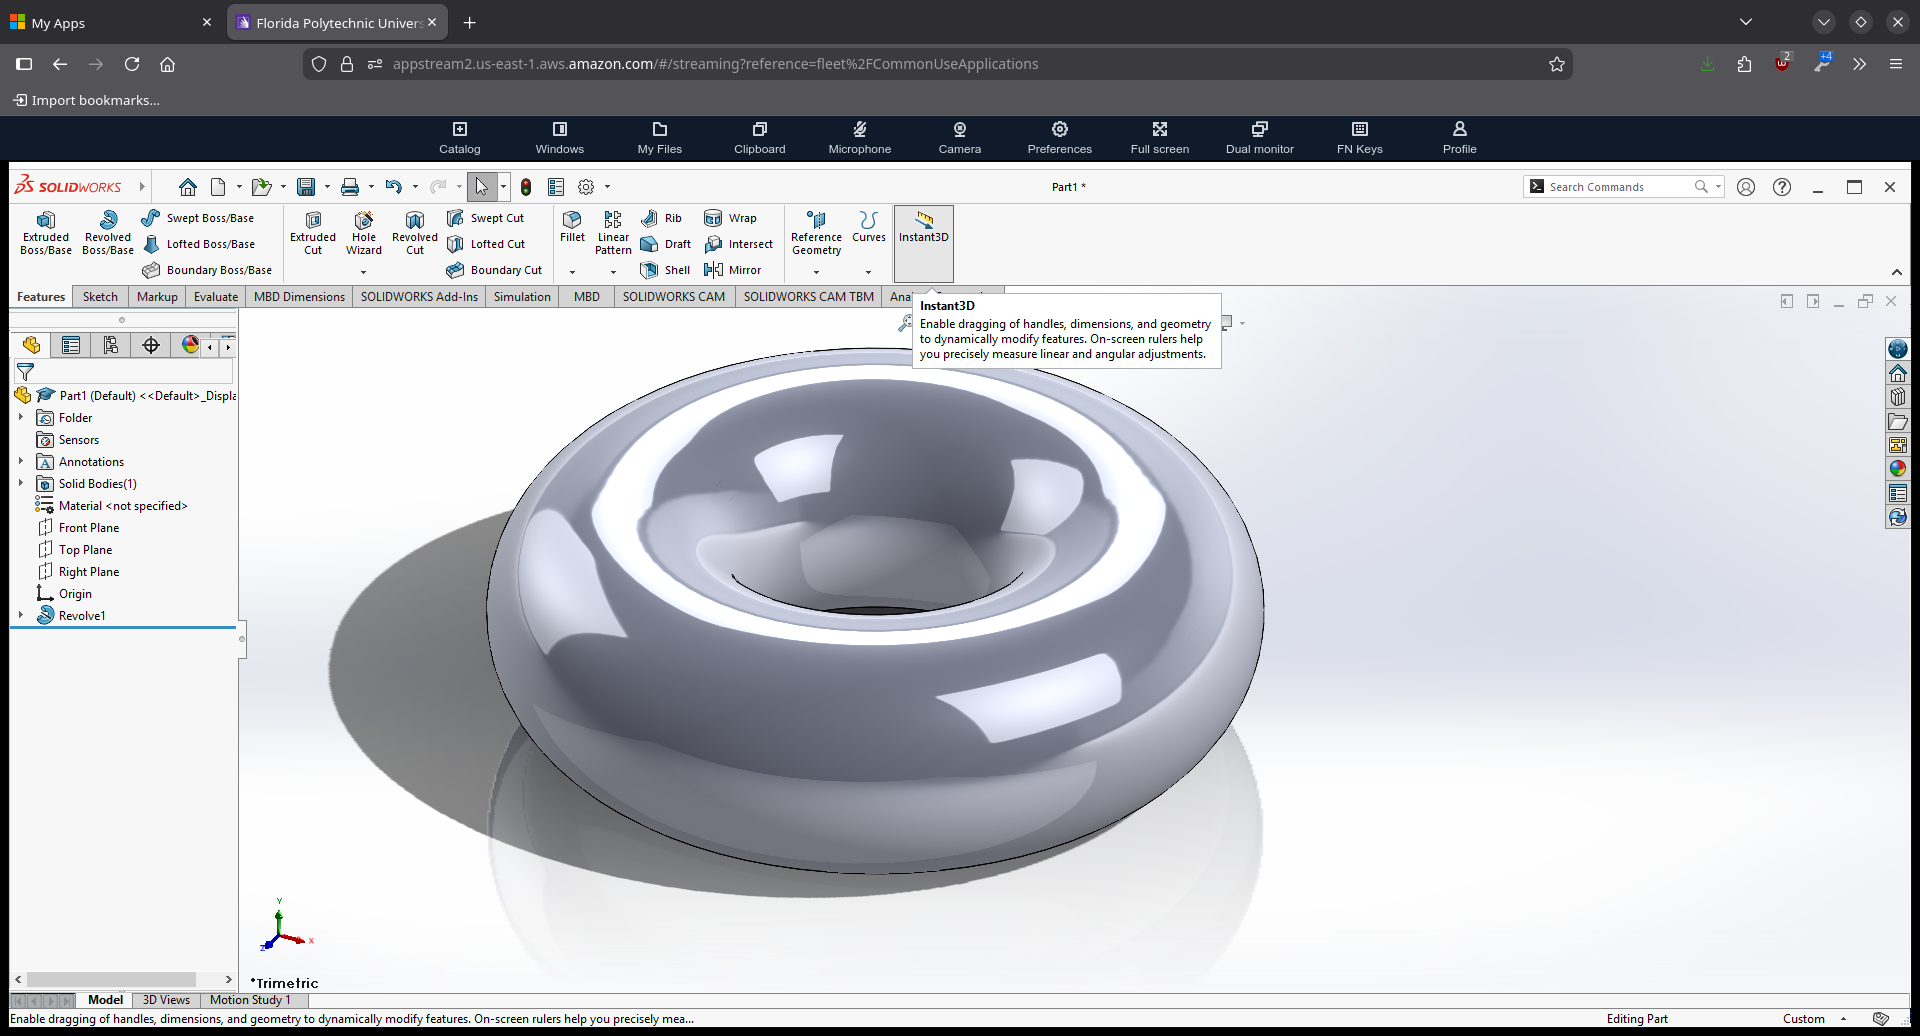
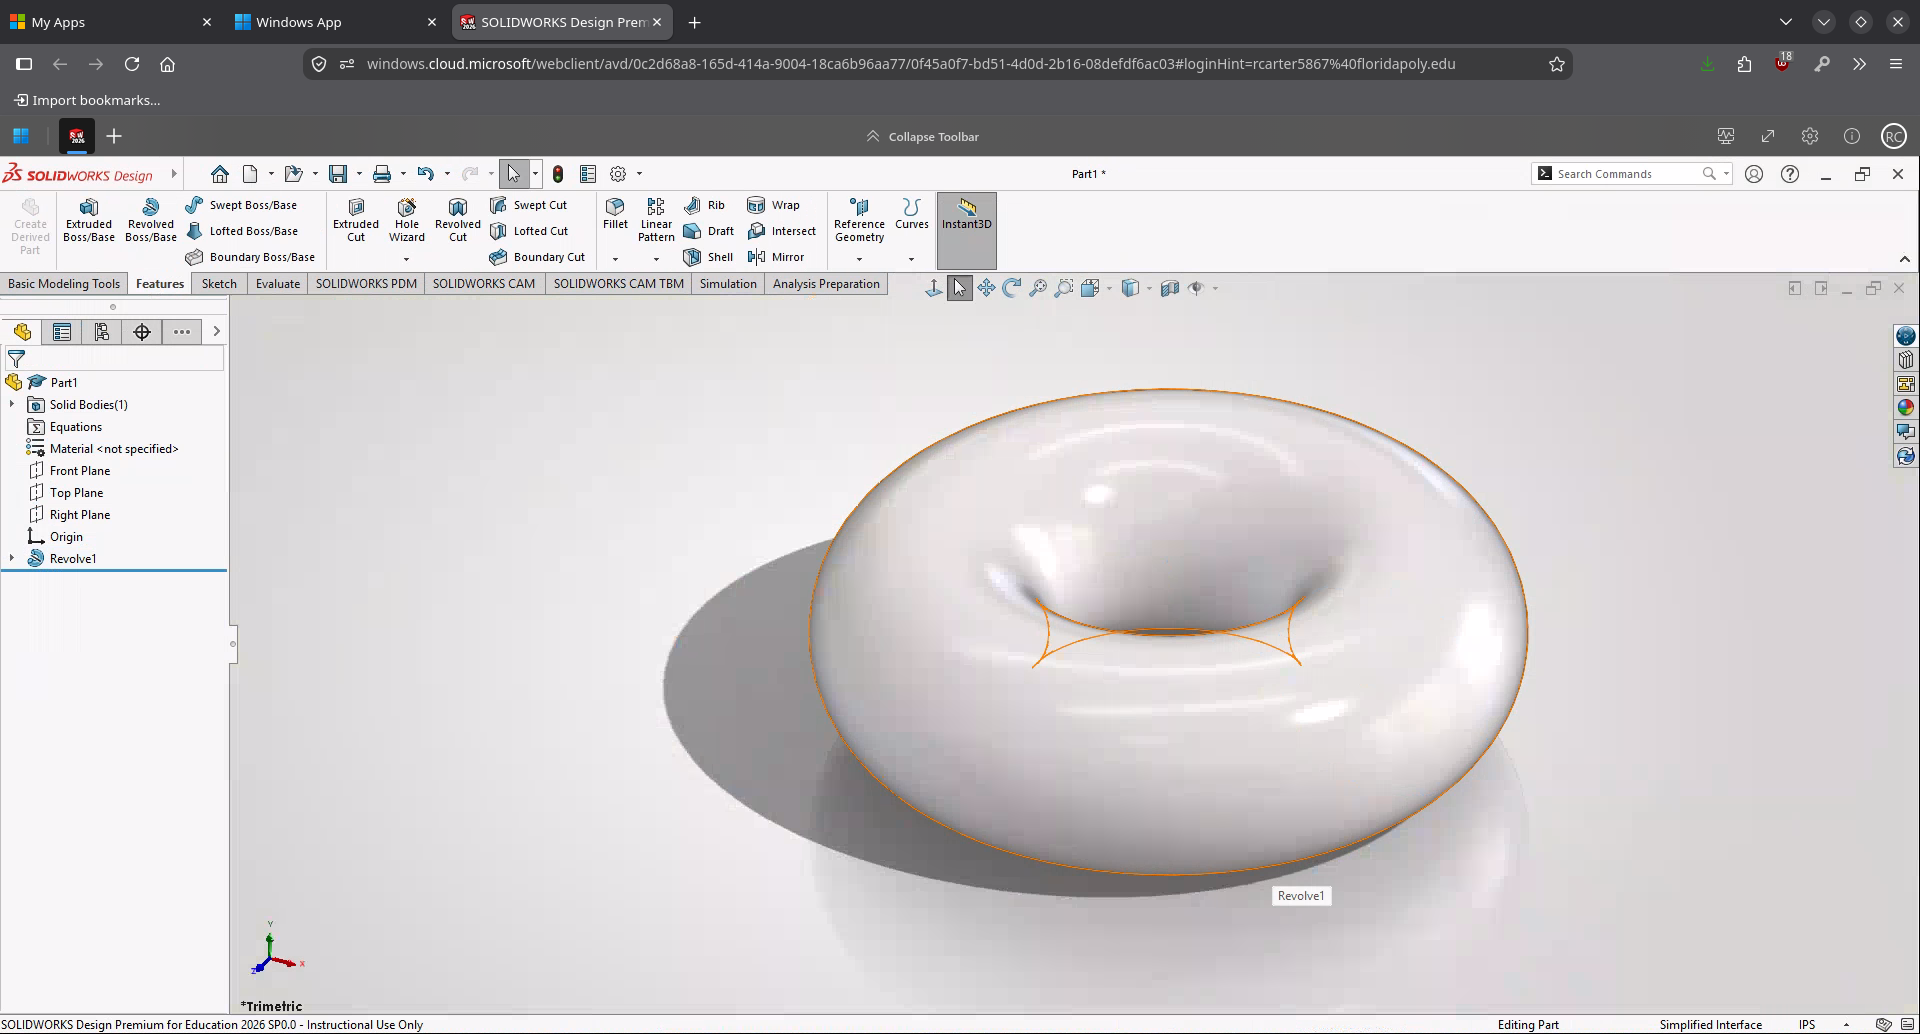
Updated Living With Linux at Florida Poly

diff --git a/workshops/livingwithlinuxatfloridapoly/lwlatfpu.md b/workshops/livingwithlinuxatfloridapoly/lwlatfpu.md
@@ -13,23 +13,25 @@ For brevity's sake, here are some key takeaways from that workshop that are rela
 - Wine works by translating Windows API calls to Linux, rather than running a full copy of Windows under a virtual machine.
     - This method improves performance, but limits compatibility for many apps.
     - Install wine using either your package manager or [refer to their official install gude](https://gitlab.winehq.org/wine/wine/-/wikis/Download) to obtain more up-to-date builds.
-- Use appdb.winehq.org to find out if your app is compatible with wine.
+- Use [appdb.winehq.org](appdb.winehq.org) to find out if your app is compatible with wine.
     - AppDB ratings are crowdsourced, and include more detailed instructions on workarounds to major issues.
     - Platinum and Gold rated apps will work very well with Wine, and should present few issues.
 - Winetricks gives you access to utilities and installers to make troubleshooting easier.
     - Install it from your distro's package manager
-### Running it in a VM: Amazon AppStream and Winboat
+### Running it in a VM: The Windows app and Winboat
 If all else fails, and your app is incompatible with wine, there are options that allow you to run these apps with Linux. These solutions involve running your app in a virtual machine under a real copy of Windows.
-#### Amazon AppStream
-AppStream is a service that Amazon offers through Amazon Web Services (AWS). Florida Poly has access to this service, and most of the apps available on the school's computers are available through this service. All apps are run in a virtual machine in an AWS datacenter, and streamed back to your computer via your web browser. Additionally, since all of these apps are from Florida Poly's app library, any paywalls or licensing issues have been taken care of for you, so you don't have to deal with any subscriptions or limited trial versions. Since this is not running locally, there are no features to pass through devices other than cameras, microphones, mice and keyboards, so apps used to program hardware such as Atmel/Microchip Studio are unavailable here. Additionally, keep in mind that an internet connection is required at all times when using this service, so if you plan on working without internet or AWS goes down, AppStream will not work.
-##### Accessing AppStream
-AppStream can be accessed by finding My Apps in MyFloridaPoly, or going to myapps.microsoft.com and logging into your school email. You can then select the app you need to use, and it will take you to AppStream. You may need to select your app again, but once you do, it will start your VM, and ask you to log in to your account. Use the password to your school email to continue, and you will be good to go. We will give more detailed instructions once we get to our examples, including more information on how to use the VM.
+#### The Windows App
+The Windows app is a service that Microsoft offers through OneDrive. Florida Poly has access to this service, and most of the apps available on the school's computers are available through this service. All apps are run in a virtual machine in an Microsoft datacenter, and streamed back to your computer via your web browser. Additionally, since all of these apps are from Florida Poly's app library, any paywalls or licensing issues have been taken care of for you, so you don't have to deal with any subscriptions or limited trial versions. Since this is not running locally, there are no features to pass through devices, so apps used to program hardware such as Atmel/Microchip Studio are unavailable here. Additionally, keep in mind that an internet connection is required at all times when using this service, so if you plan on working without internet or Microsoft's datacenters go down, the Windows app will not work.
+##### Accessing the Windows app
+The Windows app can be accessed by finding My Apps in MyFloridaPoly, or going to [myapps.microsoft.com](myapps.microsoft.com) and logging into your school email. You can then select the app you need to use, and it will take you to the Windows app. You will need to select your app again, but once you do, it will start your VM and you will be good to go. We will give more detailed instructions once we get to our examples, including more information on how to use the VM.
+
 >[!NOTE]
->You may have noticed that the website you initially go to for these tools is a Microsoft website. In this case the Microsoft website is providing the shortcuts to these programs, and it also used to log you into the AppStream system.
+> This seems to be the official method to access licensed software on personal devices, regardless of OS.
+
 #### Winboat
 If you plan on being offline, or prefer running things locally, Winboat is an excellent choice. Winboat installs a full copy of Windows to a Docker image, and manages it for you so it is seamlessly integrated into your setup. It takes care of all of the Docker work for you, and even can install Windows for you!
 
-Unfortunately, not every app runs on Winboat. GPU passthrough is not available, so if you plan on working with graphically intensive apps, you may run into poor performance. Additionally, it installs a full copy of Windows, so make sure you have a lot of disk space free to accomodate it, as well as any apps you will be running.
+Unfortunately, not every app runs on Winboat. GPU passthrough and 3D acceleration is not available, so if you plan on working with graphically intensive apps, you may run into poor performance. Additionally, it installs a full copy of Windows, so make sure you have a lot of disk space free to accomodate it, as well as any apps you will be running.
 >[!WARNING]
 >This software is still in beta. It won't work perfectly.
 ##### Installation
@@ -71,58 +73,43 @@ Afterwards, you can just use it like you would on Windows.
 ### Example 3: Solidworks
 Solidworks is a parametric CAD modeling program produced by Dassault Systèmes. It's a key part of mechanical engineering, and all engineering majors at Poly have to interact with it at some point, especially through the Engineering Skills and Design course.
 
-It's also completely unavailable on Linux. It cannot be run on Wine, and being a 3D CAD program, Winboat can't run it, but luckily for us, it is available through AppStream.
+It's also completely unavailable on Linux. It cannot be run on Wine, and being a 3D CAD program, Winboat can't run it, but luckily for us, it is available through the Windows app.
 
 >[!WARNING]
->AppStream might not always carry the latest versions of apps. Programs like Solidworks may give you issues if you upload files from a later version into an older build of it.
-#### Accessing Solidworks on Linux and How to Use AppStream
+>the Windows app might not always carry the latest versions of apps. Programs like Solidworks may give you issues if you upload files from a later version into an older build of it.
+#### Accessing Solidworks on Linux and How to Use the Windows app
 We'll start at [My Apps](myapps.microsoft.com). You may need to sign in to your school email first. We will then select Solidworks.
 ![My Apps](resources/solidworks-1.png)
 
-This will log you in to AppStream. Afterwards, it will ask you to select your app again. 
+This will open a new tab with the Windows app. Afterwards, it will ask you to select your app again. 
 ![Selecting Solidworks](resources/solidworks-2.png)
 
-After that, it will reserve your VM. It will take a minute or two, especially for larger programs like Solidworks. Once it's ready, it will ask you to sign in. Sign in with your school email password. Afterwards, it will connect you to the VM and open Solidworks.
+It may also ask you about alternative keyboard layouts. Click `Connect` if the settings look good.
 
->[!TIP]
->If you give AppStream notification permissions, you can put the tab in the background and it will notify you when your VM is ready.
+![Other settings](resources/solidworks-2a.png)
 
-![Solidworks in Appstream](resources/solidworks-3.png)
+It will also ask you to sign in, which will open a new tab asking for your permission to connect your school email to the VM.
+
+![Permissions](resources/solidworks-2b.png)
+
+Afterwards, it will connect you to the VM and open Solidworks.
+
+![Solidworks in the Windows app](resources/solidworks-3.png)
 
 ##### Accessing Your Files
-Now that we are loaded into Solidworks, it would probably be beneficial to put some files we need to work on, onto our VM. To add files, click on the "My Files" button. You will be presented two ways to get files on the VM:
+Now that we are loaded into Solidworks, it would probably be beneficial to put some files we need to work on, onto our VM. Unfortunately, the only way to add or save files to this system is via your school OneDrive account. If you have any files you've been working on, upload it to your Florida Poly OneDrive. You can also save directly to it, and download your file from there.
 
-- Temporary Files
-    - You can upload files from your computer to the temporary folder. It will be deleted when you end the session. To upload, select the "Upload Files" button and choose the file you want to work on.
-- OneDrive
-    - Since you are logged in with your school email, it can easily be connected to your Florida Poly OneDrive account. Simply upload your files to that, and it will allow you to load files from it (you might have to connect it to your account).
-
-Afterwards, the files will be available through regular Windows save/load dialogs.
->[!TIP]
->If you use OneDrive to access your files, you may notice two subfolders, `Files` and `Shared`. Choose `Files` to work with your files.
-###### Saving Files To Your Computer
-If you use OneDrive, when you save it should be automatically backed up. 
-If you use the Temporary Folder, you will need to download the files back to your computer so your work doesn't get deleted. To save your file, save it like you would on Windows, and close out of the app you are using. Windows won't let us access our file while another process is using it, so closing out is essential. Once out of your app, navigate to the Temporary Folder directory in the My Files menu. Select the checkbox next to the files you want to save. Click Actions → Download.
-
-![Download your files](resources/solidworks-4.png)
-
-You will get your system's save dialog. Save your file and it will start downloading. Close the My Files Dialog when done.
->[!TIP]
->You can select multiple files, and you can select all by clicking on the checkbox at the very top of the file list. Be ready for a lot of save dialogs!
 ##### Logging Out
-Now that we're done in Solidworks, we can end the session. Click on Profile and then click on End Session.
-![End Session](resources/solidworks-5.png)
+Now that we're done in Solidworks, we can end the session. To end the session, close the app you were using. After a short time, it will kick you out, resulting in the following message:
 
-You will then get the following warning to save files if you haven't. 
-![End Session Error](resources/solidworks-6.png)
+![Session ended](/workshops/livingwithlinuxatfloridapoly/resources/solidworks-4.png)
 
-Click End Session if you are sure you saved everything. You will get a Session Ended screen. You can then close the browser tab. 
+You can then close the browser tab. You may also close the tab once you're done with the app you were using.
 ### Example 4: Mathcad
 ![Mathcad on Wine](/workshops/wine/resources/mathcad-2.png)
 
 Mathcad is a program that allows you to type in math equations as if you were writing them on paper, and have the computer solve it for you. It's often used in various electrical engineering courses here at Poly.
-While it can be run under Wine (as shown in the above screenshot), it is not easy to install, and it has some bugs that make it a dealbreaker for many. The insttallation procedure for Wine was briefly touched on in the workshop's [Readme](https://github.com/PhoenixLinuxUserGroup/PLUG-Resources/blob/main/workshops/wine/wine.md)
-It is available on AppStream, and you can access it similar to how you can access Solidworks
+While it can be run under Wine (as shown in the above screenshot), it is not easy to install, and it has some bugs that make it a dealbreaker for many. Additionally, a license is required to use advanced fetures discussed in the classes that use it. Florida Poly has a license for this, however stuents cannot access this license. While we did cover the installation procedure for Wine in the last workshop's [Readme](https://github.com/PhoenixLinuxUserGroup/PLUG-Resources/blob/main/workshops/wine/wine.md), we recommend using it with the Windows app. As with Solidworks, you can access this from [My Apps](myapps.microsoft.com).
 ### Example 5: Matlab
 ![Matlab on Linux](resources/matlab-1.png)
 
@@ -174,7 +161,7 @@ It will then ask you where your copy of Matlab is. If you copied the default loc
 Below are examples of programs that cannot be run on Linux in their full form. Here, we present some alternatives. For these apps, we recommend dual-booting Windows.
 ### Example 6: Autocad
 Autodesk's Autocad is a CAD software specifically designed for use in drafting, and is an industry standard program for use in civil engineering and construction.
-Autocad unfortunately cannot be run under Linux, not even under Winboat (due to lack of 3D acceleration). At the time of writing, it isn't on AppStream, and the only builds supported by Wine are obsolete by a few decades.
+Autocad unfortunately cannot be run under Linux, not even under Winboat (due to lack of 3D acceleration). At the time of writing, it isn't on the Windows app, and the only builds supported by Wine are obsolete by a few decades.
 #### Alternatives
 There is a web version of Autocad, which can run on any computer with a web browser. It's pretty limited compared to Autocad, and you will need a subscription to access it. Additionally, all data is stored on the cloud, on Autodesk's servers.
 >[!Note]
